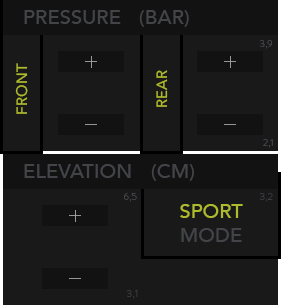
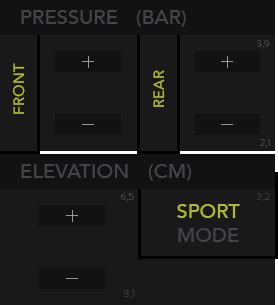
Home release 1.0

diff --git a/sass/views/_experience.scss b/sass/views/_experience.scss
@@ -1,5 +1,5 @@
 section#experience{
-	overflow: hidden;
+	overflow-x: hidden;
 	article.gps {
 		padding-left: 20px;
 		padding-right: 20px;
@@ -743,7 +743,7 @@ section#experience{
 		padding-left: 20px;
 		p.title {
 			position: relative;
-			top: 10px;
+			top: 5px;
 			width: 400px;
 			text-transform: uppercase;
 			font-weight: 400;
@@ -767,7 +767,7 @@ section#experience{
 				height: 115px;
 				top: 50px;
 				position: relative;
-				left: 60px;
+				left: 55px;
 				p.counterPressureLeft {
 					line-height: 45px;
 					@include fontBrandonLight();
@@ -789,7 +789,7 @@ section#experience{
 				height: 115px;
 				bottom: 64px;
 				position: relative;
-				left: 200px;
+				left: 195px;
 				p.counterPressureRight {
 					line-height: 45px;
 					@include fontBrandonLight();
@@ -806,6 +806,28 @@ section#experience{
 					border: 0px;
 				}
 			}
+			div.buttonPressureBot {
+				width: 100px;
+				height: 115px;
+				top: 205px;
+				position: absolute;
+				left: 40px;
+				p.counterPressureBot {
+					line-height: 45px;
+					@include fontBrandonLight();
+					margin: 0px;
+					width: 64px;
+					font-size: 33px;
+					text-align: center;
+					color: $green;
+				}
+				button {
+					background: transparent;
+					width: 64px; 
+					height: 20px;
+					border: 0px;
+				}
+			}
 		}
 		div.usure {
 			position: relative;
@@ -814,15 +836,47 @@ section#experience{
 			background-image: url("../assets/img/control/usure.png");
 			width: 296px;
 			height: 308px;
+			div.alert {
+				@include fontAvenir();
+				left: 4px;
+				position: absolute;
+				width: 289px;
+				height: 40px;
+				top: 190px;
+				line-height: 40px;
+				text-align: center;
+				font-size: 22px;
+				background-color: $red;
+				color: $white;
+				border-bottom: 2px solid black;
+				text-transform: uppercase;
+				
+				animation-name: warningAnimation;
+		      	animation-iteration-count: infinite;
+		      	animation-duration: 1s;
+			}
 		}
 		div.car {
 			display: inline-block;
 			position: relative;
 			bottom: 20px;
-			left: -8px;
+			left: 3px;
 			background-image: url("../assets/img/control/car.png");
 			width: 289px;
 			height: 398px;
+
+			animation-name: carAnimation;
+		    animation-iteration-count: infinite;
+		    animation-duration: 1s;
+		}
+		div.usureBad {
+			display: inline-block;
+			position: relative;
+			bottom: 49px;
+			left: 8px;
+			background-image: url("../assets/img/control/usureBad.png");
+			width: 275px;
+			height: 305px;
 		}
 	}
 	@keyframes changeOpacity{
@@ -846,5 +900,27 @@ section#experience{
         100%{
           transform: scale(1);
         }
+    }
+    @keyframes warningAnimation {
+      0% { 
+      	opacity: 1; 
+      }
+      50% { 
+      	opacity: 0; 
+      }
+      100% { 
+      	opacity: 1;
+      }
+    }
+    @keyframes carAnimation {
+      0% { 
+      	opacity: 1; 
+      }
+      50% { 
+      	opacity: 0.8; 
+      }
+      100% { 
+      	opacity: 1;
+      }
     }
 }

diff --git a/js/app/views/experience.js b/js/app/views/experience.js
@@ -96,4 +96,19 @@ Experience.prototype.incDec = function() {
       counterPressureRight = counterPressureRight - 0.1;
       $(".counterPressureRight").text(counterPressureRight);
     });
+
+    // Elevation
+    var counterPressureBot = 5.9;
+
+    $(".counterPressureBot").text(counterPressureBot);
+
+    $(".addPressureBot").click(function() {
+        counterPressureBot = counterPressureBot + 0.1;
+        $(".counterPressureBot").text(counterPressureBot);
+    });
+
+    $(".subtractPressureBot").click(function() {
+      counterPressureBot = counterPressureBot - 0.1;
+      $(".counterPressureBot").text(counterPressureBot);
+    });
 }

diff --git a/sass/main.scss b/sass/main.scss
@@ -17,7 +17,7 @@ body {
 section {
 	background-image: url("../assets/img/pattern.png");
 	width: 1200px;
-	height: 1920px;
+	height: 1770px;
 }
 
 // Views
